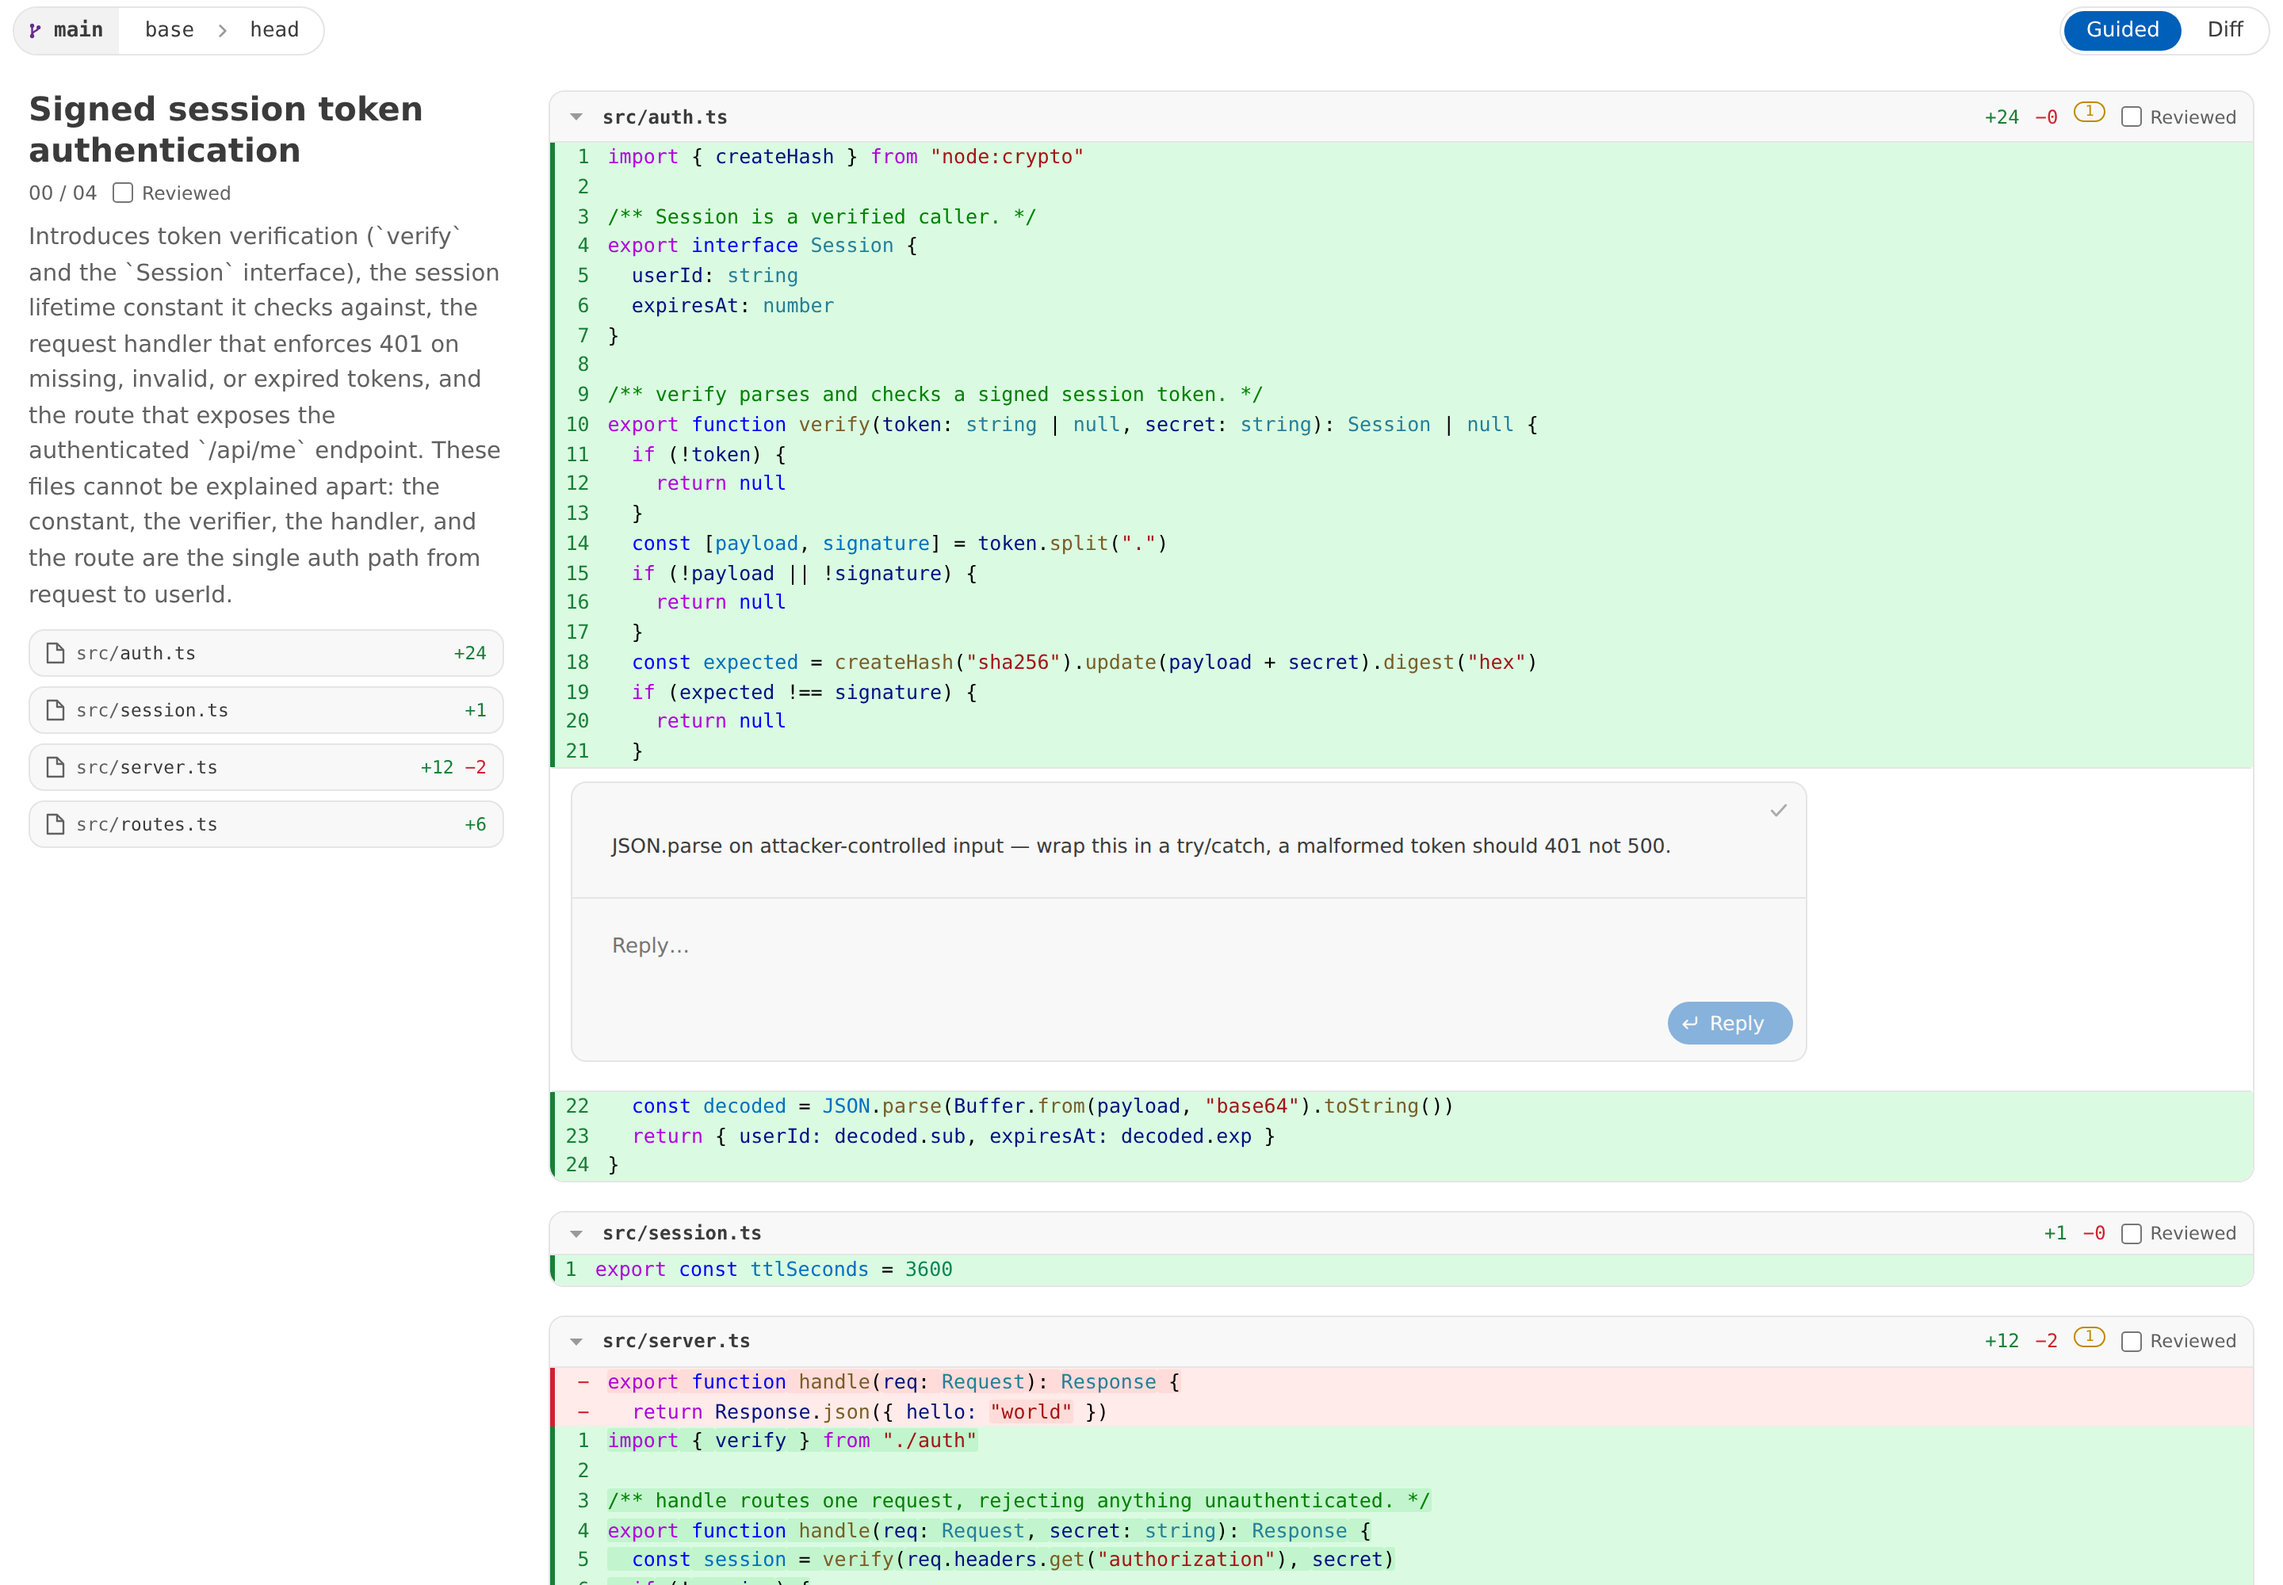
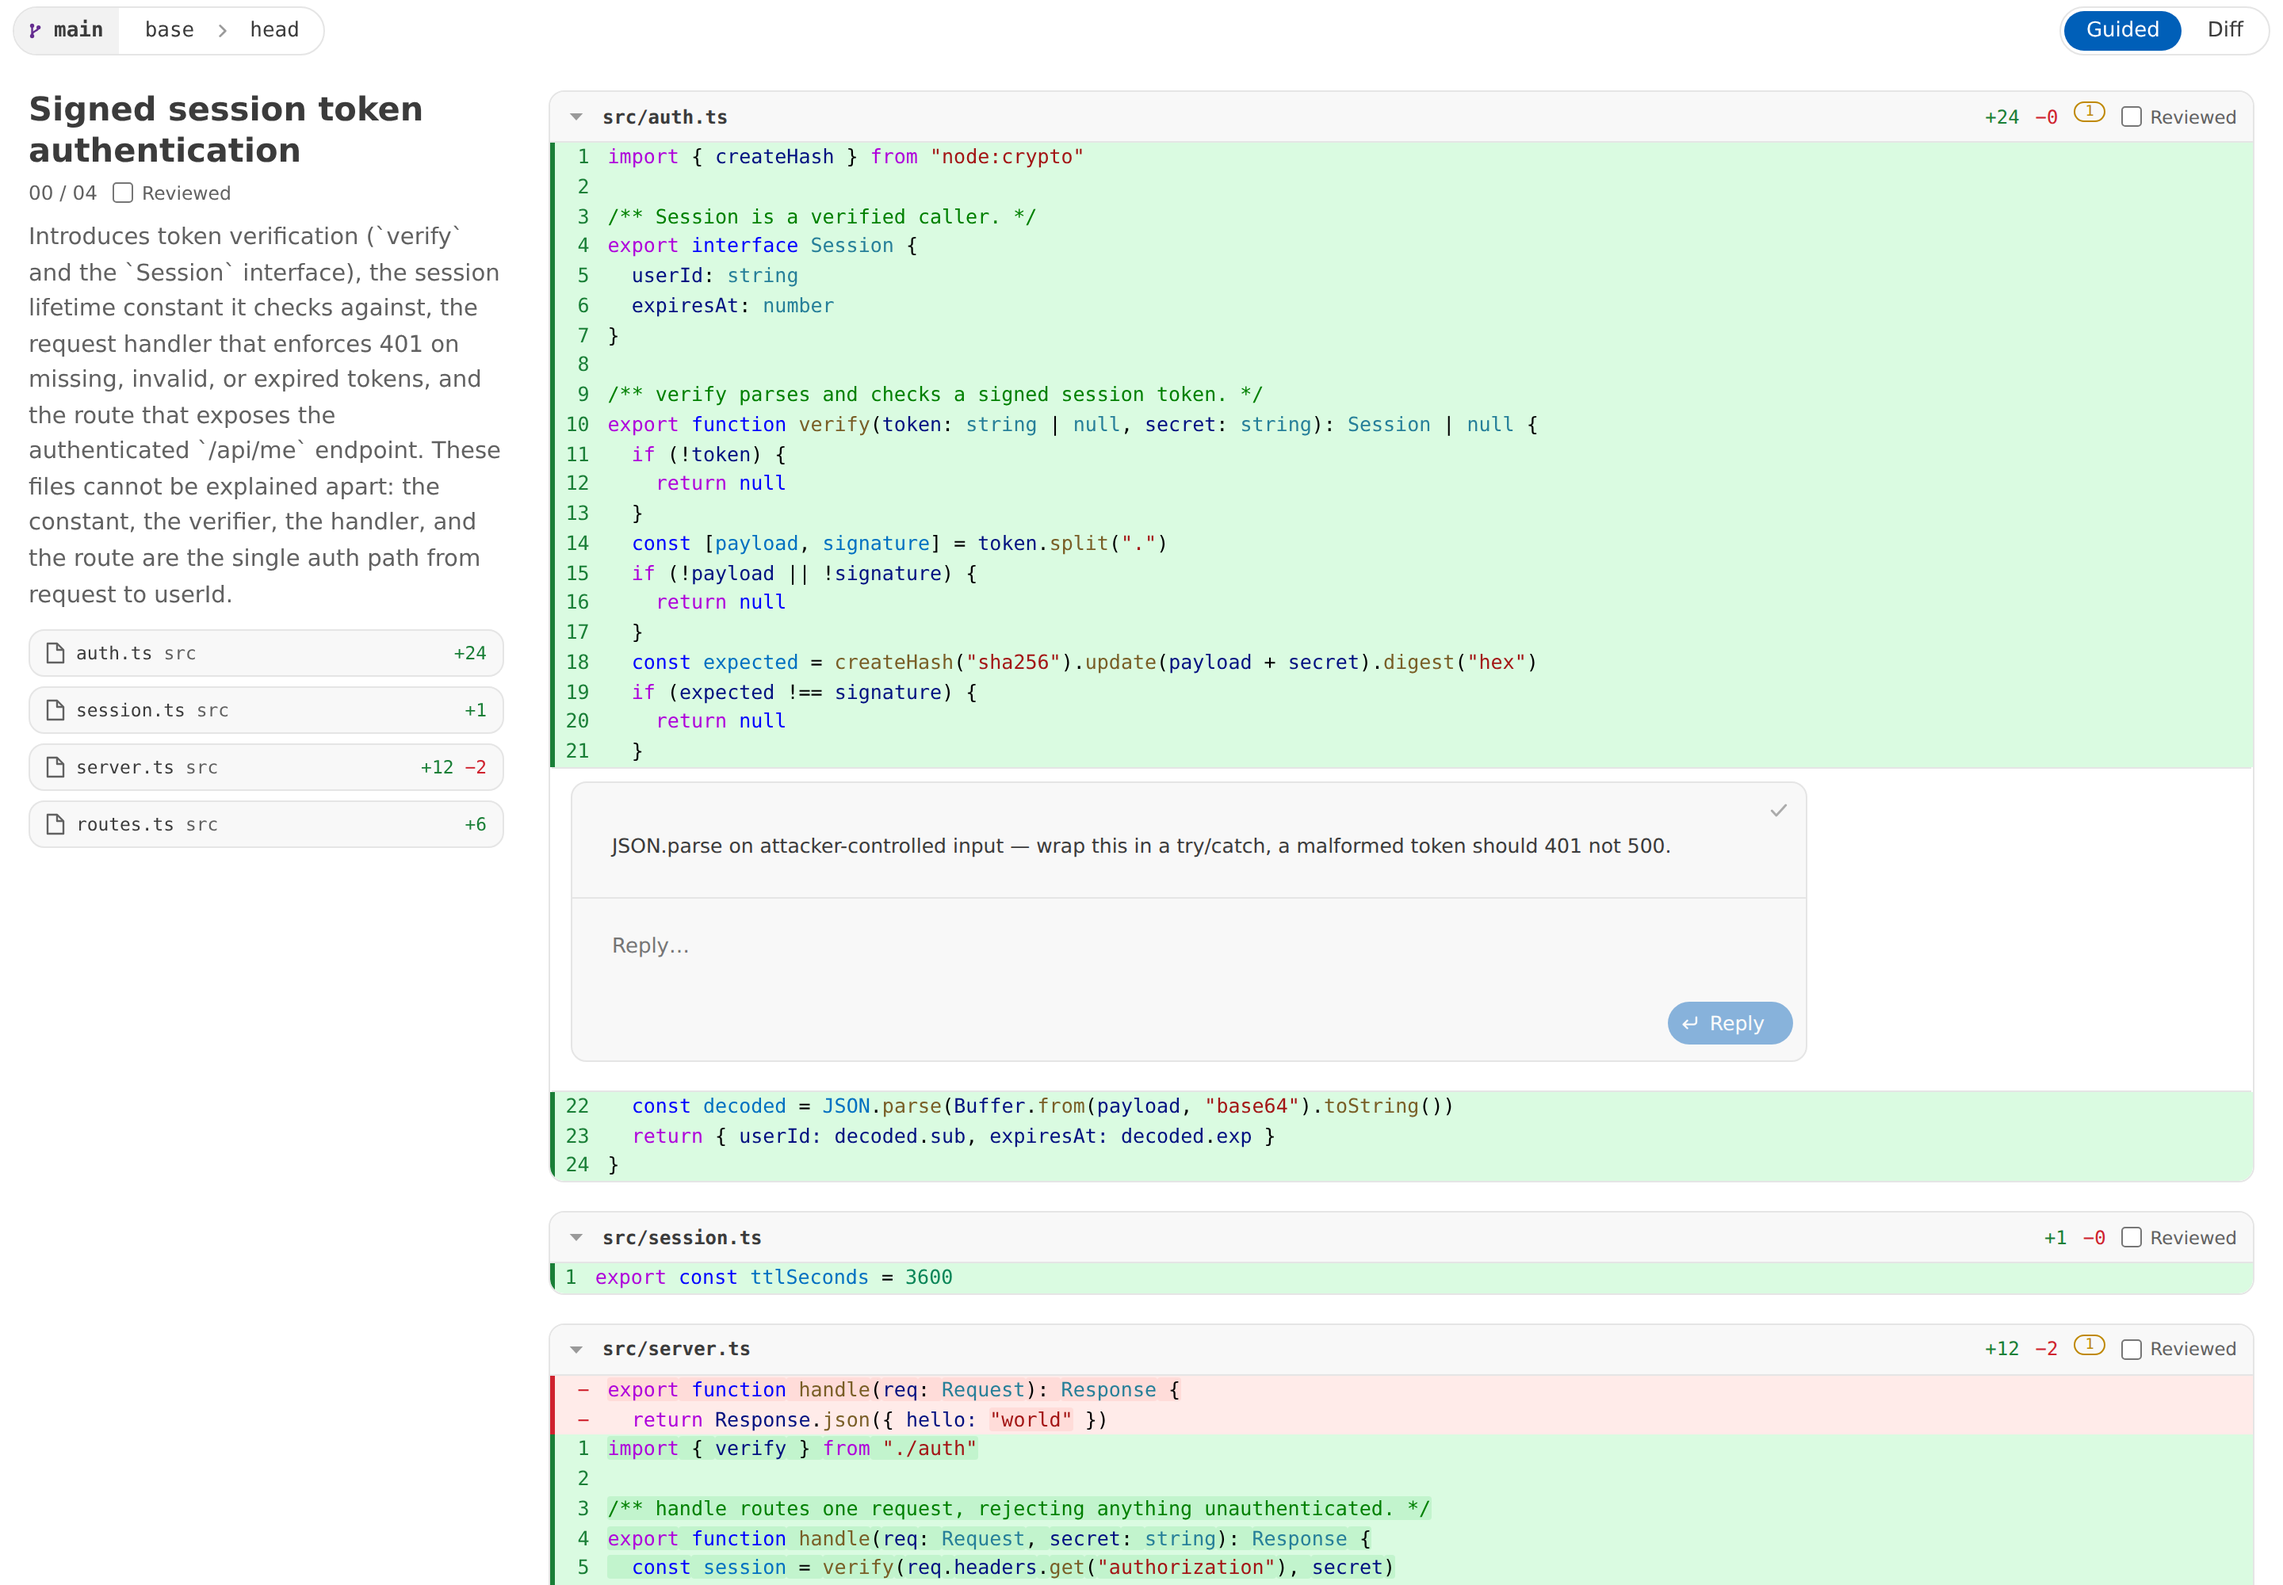
Lead a card with its name, and hold a file's title over its diff
The card put the name and the directory on equal footing, so both gave up
characters together and a long path cost the name its ending. The directory
yields the whole width first now, and only a name with nowhere left to go is cut.
The title bar sticks while its own diff scrolls, at one fixed height, which is
what the fold handles below it pin beneath; in one column the chapter summary
already holds the top, so the bar stands down there.

Claude-Session: https://claude.ai/code/session_01GdVzQZNRY88Fe75gzKDsfJ

Changed region(s): [[0.25, 0.775, 1.0, 1.0], [0.0312, 0.496, 0.0625, 0.527], [0.0312, 0.403, 0.0625, 0.434]]

diff --git a/src/webview/theme.css b/src/webview/theme.css
@@ -7,6 +7,8 @@
   --gr-summary-width: 300px;
   /* the page's side gutter, kept as a name because the content and the pill share it */
   --gr-gutter: 18px;
+  /* the height a file's title bar holds, which is also what a fold handle pins beneath */
+  --gr-file-header-h: 32px;
 
   /* positional commit colours: after the fork is blue, before it orange */
   --gr-after: var(--vscode-textLink-foreground, #4daafc);
@@ -347,17 +349,26 @@ textarea:focus { outline: 1px solid var(--vscode-focusBorder); }
 .gr-filecard.reviewed { opacity: 0.55; }
 .gr-filecard.reviewed:hover { opacity: 1; }
 .gr-filecard-icon { flex: 0 0 auto; color: var(--vscode-descriptionForeground); }
-/* the whole path, cut from the head so the name it ends with is the part that survives */
-.gr-filecard-path {
+/* the name is what the card is for, so the directory gives up the whole width before the
+   name gives up a character — a shrink factor apart, not a rule apart */
+.gr-filecard-name {
   flex: 0 1 auto;
   min-width: 0;
   overflow: hidden;
   text-overflow: ellipsis;
   white-space: nowrap;
+}
+.gr-filecard-dir {
+  flex: 0 9999 auto;
+  min-width: 0;
+  color: var(--vscode-descriptionForeground);
+  overflow: hidden;
+  text-overflow: ellipsis;
+  white-space: nowrap;
+  /* cut from the head: the directory nearest the file says more than the repository root */
   direction: rtl;
   text-align: left;
 }
-.gr-filecard-dir { color: var(--vscode-descriptionForeground); }
 
 /* ── floating guide pill ───────────────────────────────────────────────── */
 
@@ -451,10 +462,18 @@ textarea:focus { outline: 1px solid var(--vscode-focusBorder); }
 .gr-file.reviewed { opacity: 0.6; }
 .gr-file.reviewed:hover { opacity: 1; }
 
+/* the title bar holds the top of its file, so the reader always knows what they are looking
+   at; one fixed height, because the fold handles below it pin at exactly its lower edge */
 .gr-file-header {
+  position: sticky;
+  top: 0;
+  z-index: 4;
   display: flex;
   align-items: center;
   gap: 10px;
+  /* border-box, so the height the fold handles offset by is the whole bar and not its text */
+  box-sizing: border-box;
+  min-height: var(--gr-file-header-h);
   padding: 6px 10px;
   background: var(--vscode-editorGroupHeader-tabsBackground, var(--vscode-editor-background));
   border-bottom: 1px solid var(--vscode-panel-border);
@@ -469,6 +488,13 @@ textarea:focus { outline: 1px solid var(--vscode-focusBorder); }
   text-overflow: ellipsis;
   white-space: nowrap;
   font-weight: 600;
+}
+
+/* one column already has the chapter summary holding the top in a band of its own, and two
+   stacked bars would eat the panel, so the title bar stands down. The handles keep pinning
+   under that band — see the rule beside the fold, which measures it. */
+@media (max-width: 900px) {
+  .gr-file-header { position: static; }
 }
 
 .gr-file-header > .gr-file-toggle,
@@ -578,7 +604,7 @@ textarea:focus { outline: 1px solid var(--vscode-focusBorder); }
 
 /* the handle holds the top of the pane while the run's lines are on screen, so the way back
    is always one click away; the mark is a boundary rather than a control, and stays put */
-.gr-fold-handle { position: sticky; top: 0; z-index: 3; }
+.gr-fold-handle { position: sticky; top: var(--gr-file-header-h); z-index: 3; }
 
 .gr-fold .diff { border-top: 1px solid var(--vscode-panel-border); }
 .gr-fold-mark + .gr-fold-handle,

diff --git a/src/webview/FileList.tsx b/src/webview/FileList.tsx
@@ -24,10 +24,8 @@ export const FileList = ({
           onClick={() => onSelect(path)}
         >
           <FileGlyph />
-          <span className="gr-filecard-path">
-            {dir && <span className="gr-filecard-dir">{dir}/</span>}
-            <span className="gr-filecard-name">{basename(path)}</span>
-          </span>
+          <span className="gr-filecard-name">{basename(path)}</span>
+          {dir && <span className="gr-filecard-dir">{dir}</span>}
           <span className="gr-spacer" />
           {meta && meta.additions > 0 && <span className="gr-stat-add">+{meta.additions}</span>}
           {meta && meta.deletions > 0 && <span className="gr-stat-del">−{meta.deletions}</span>}
